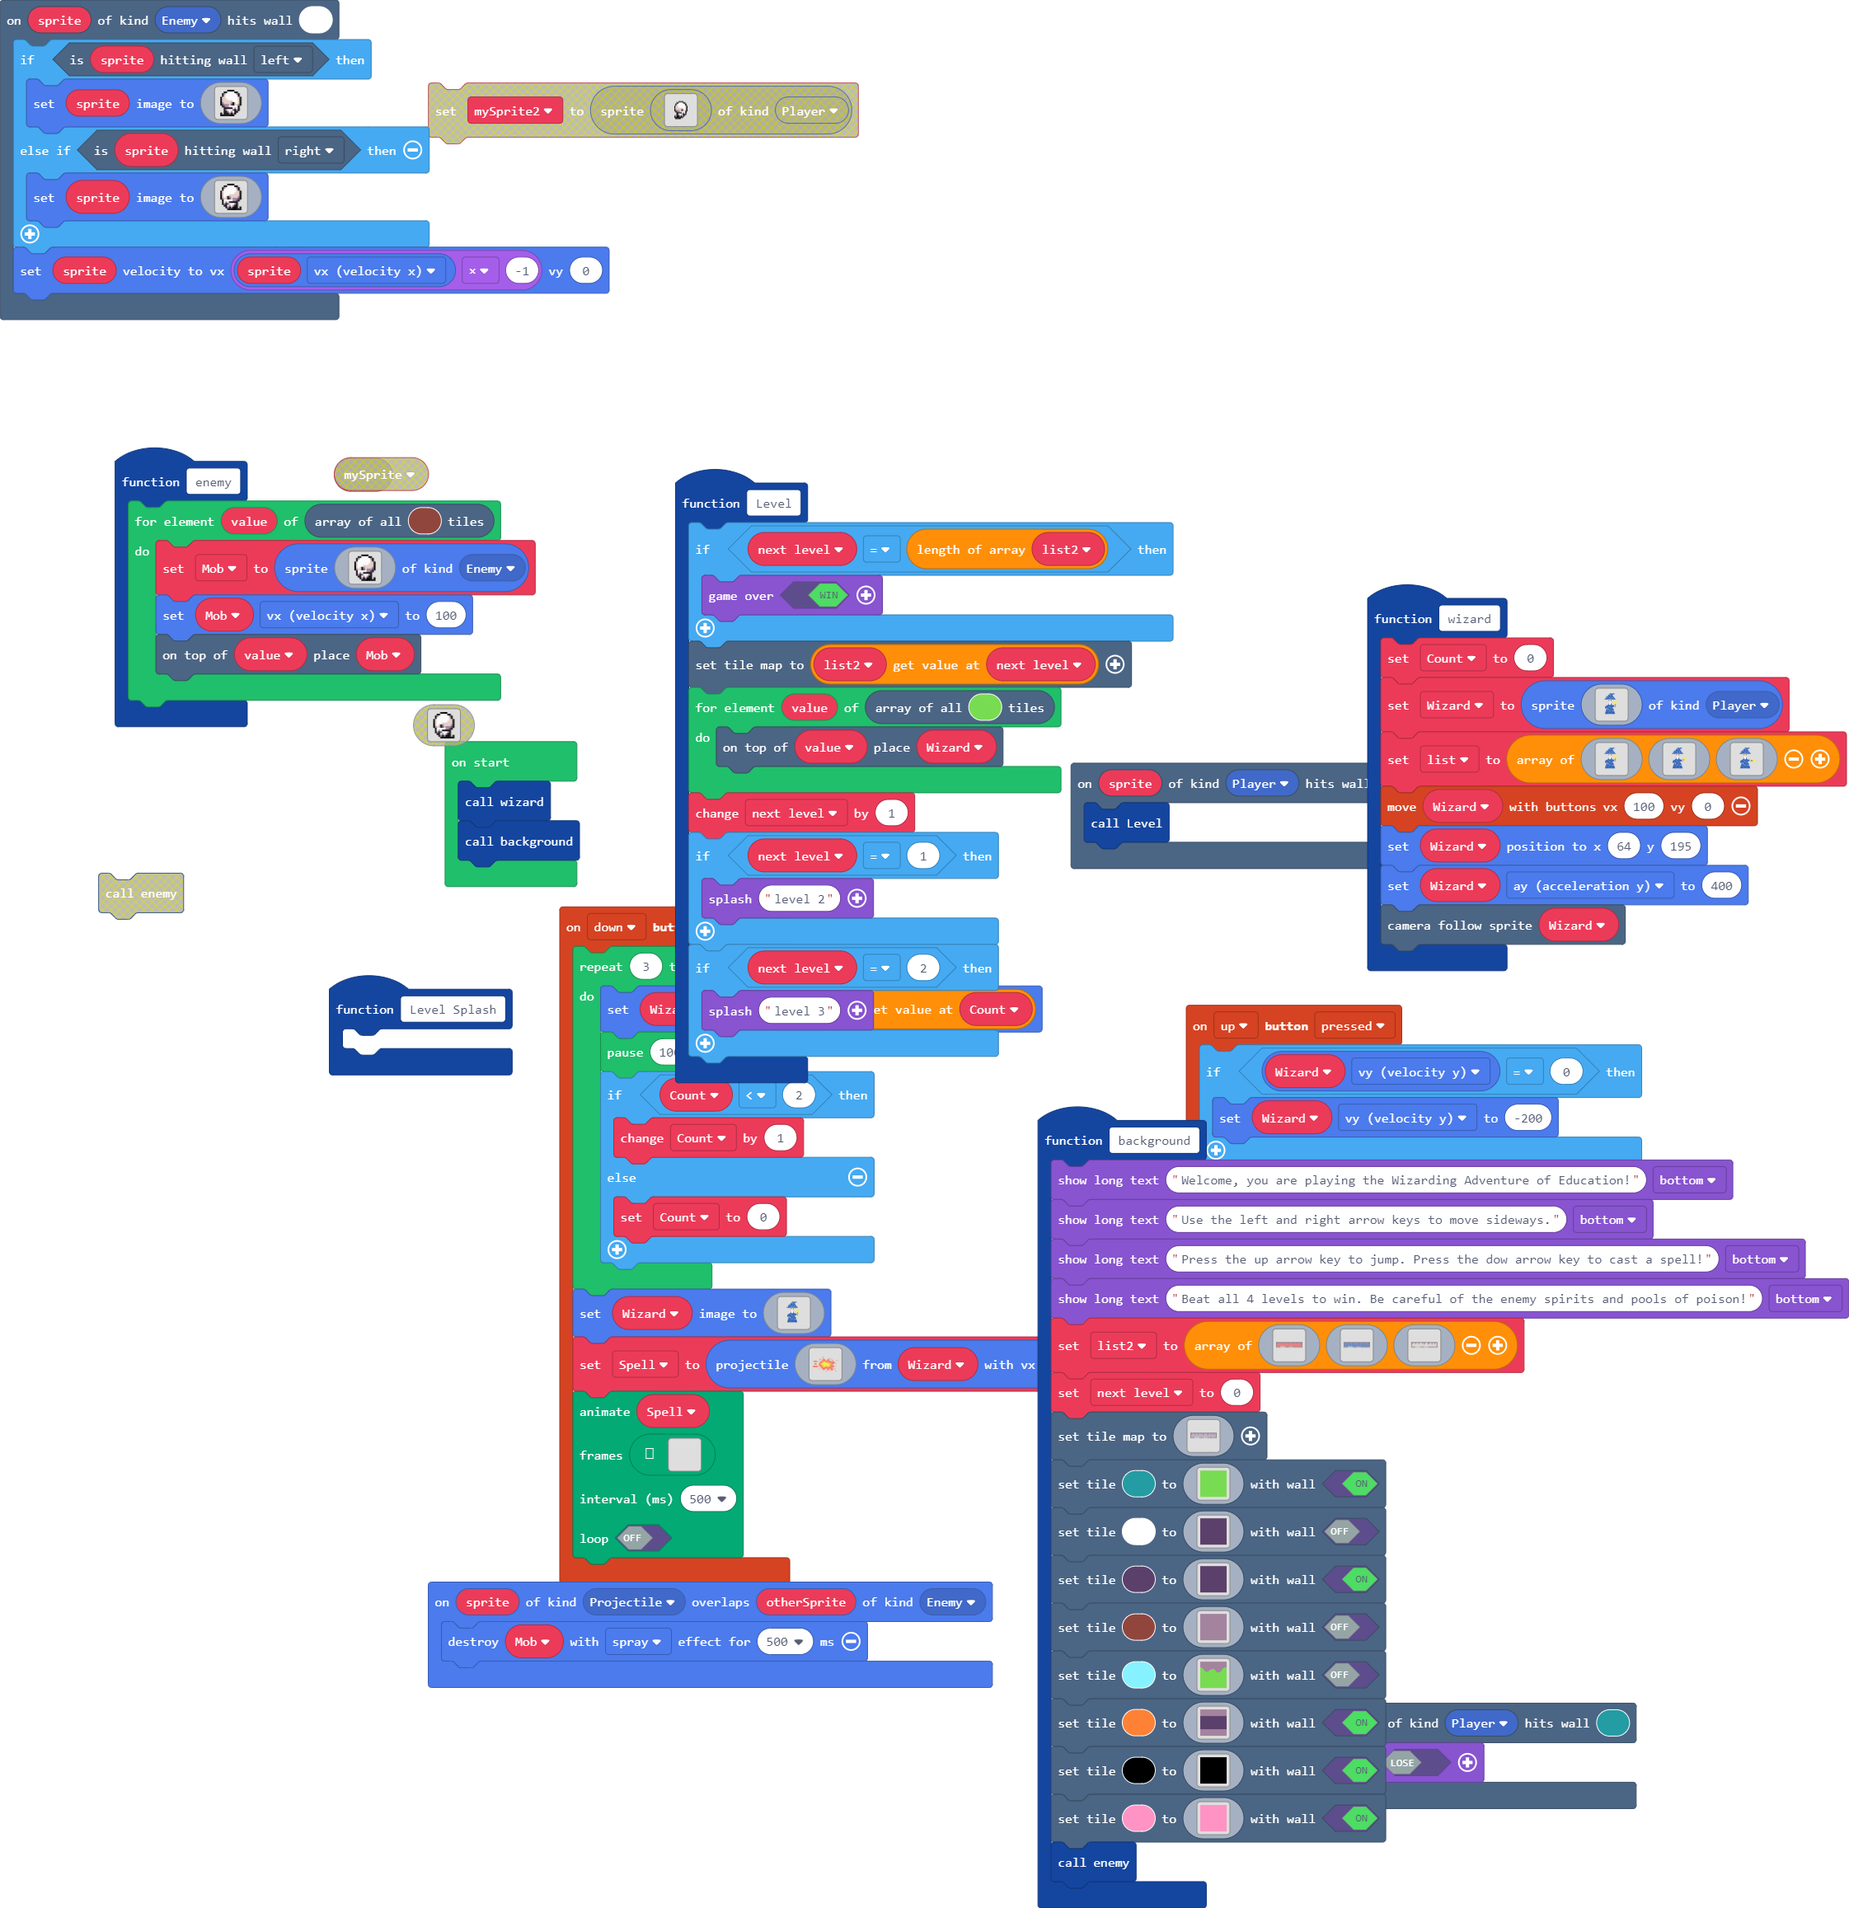
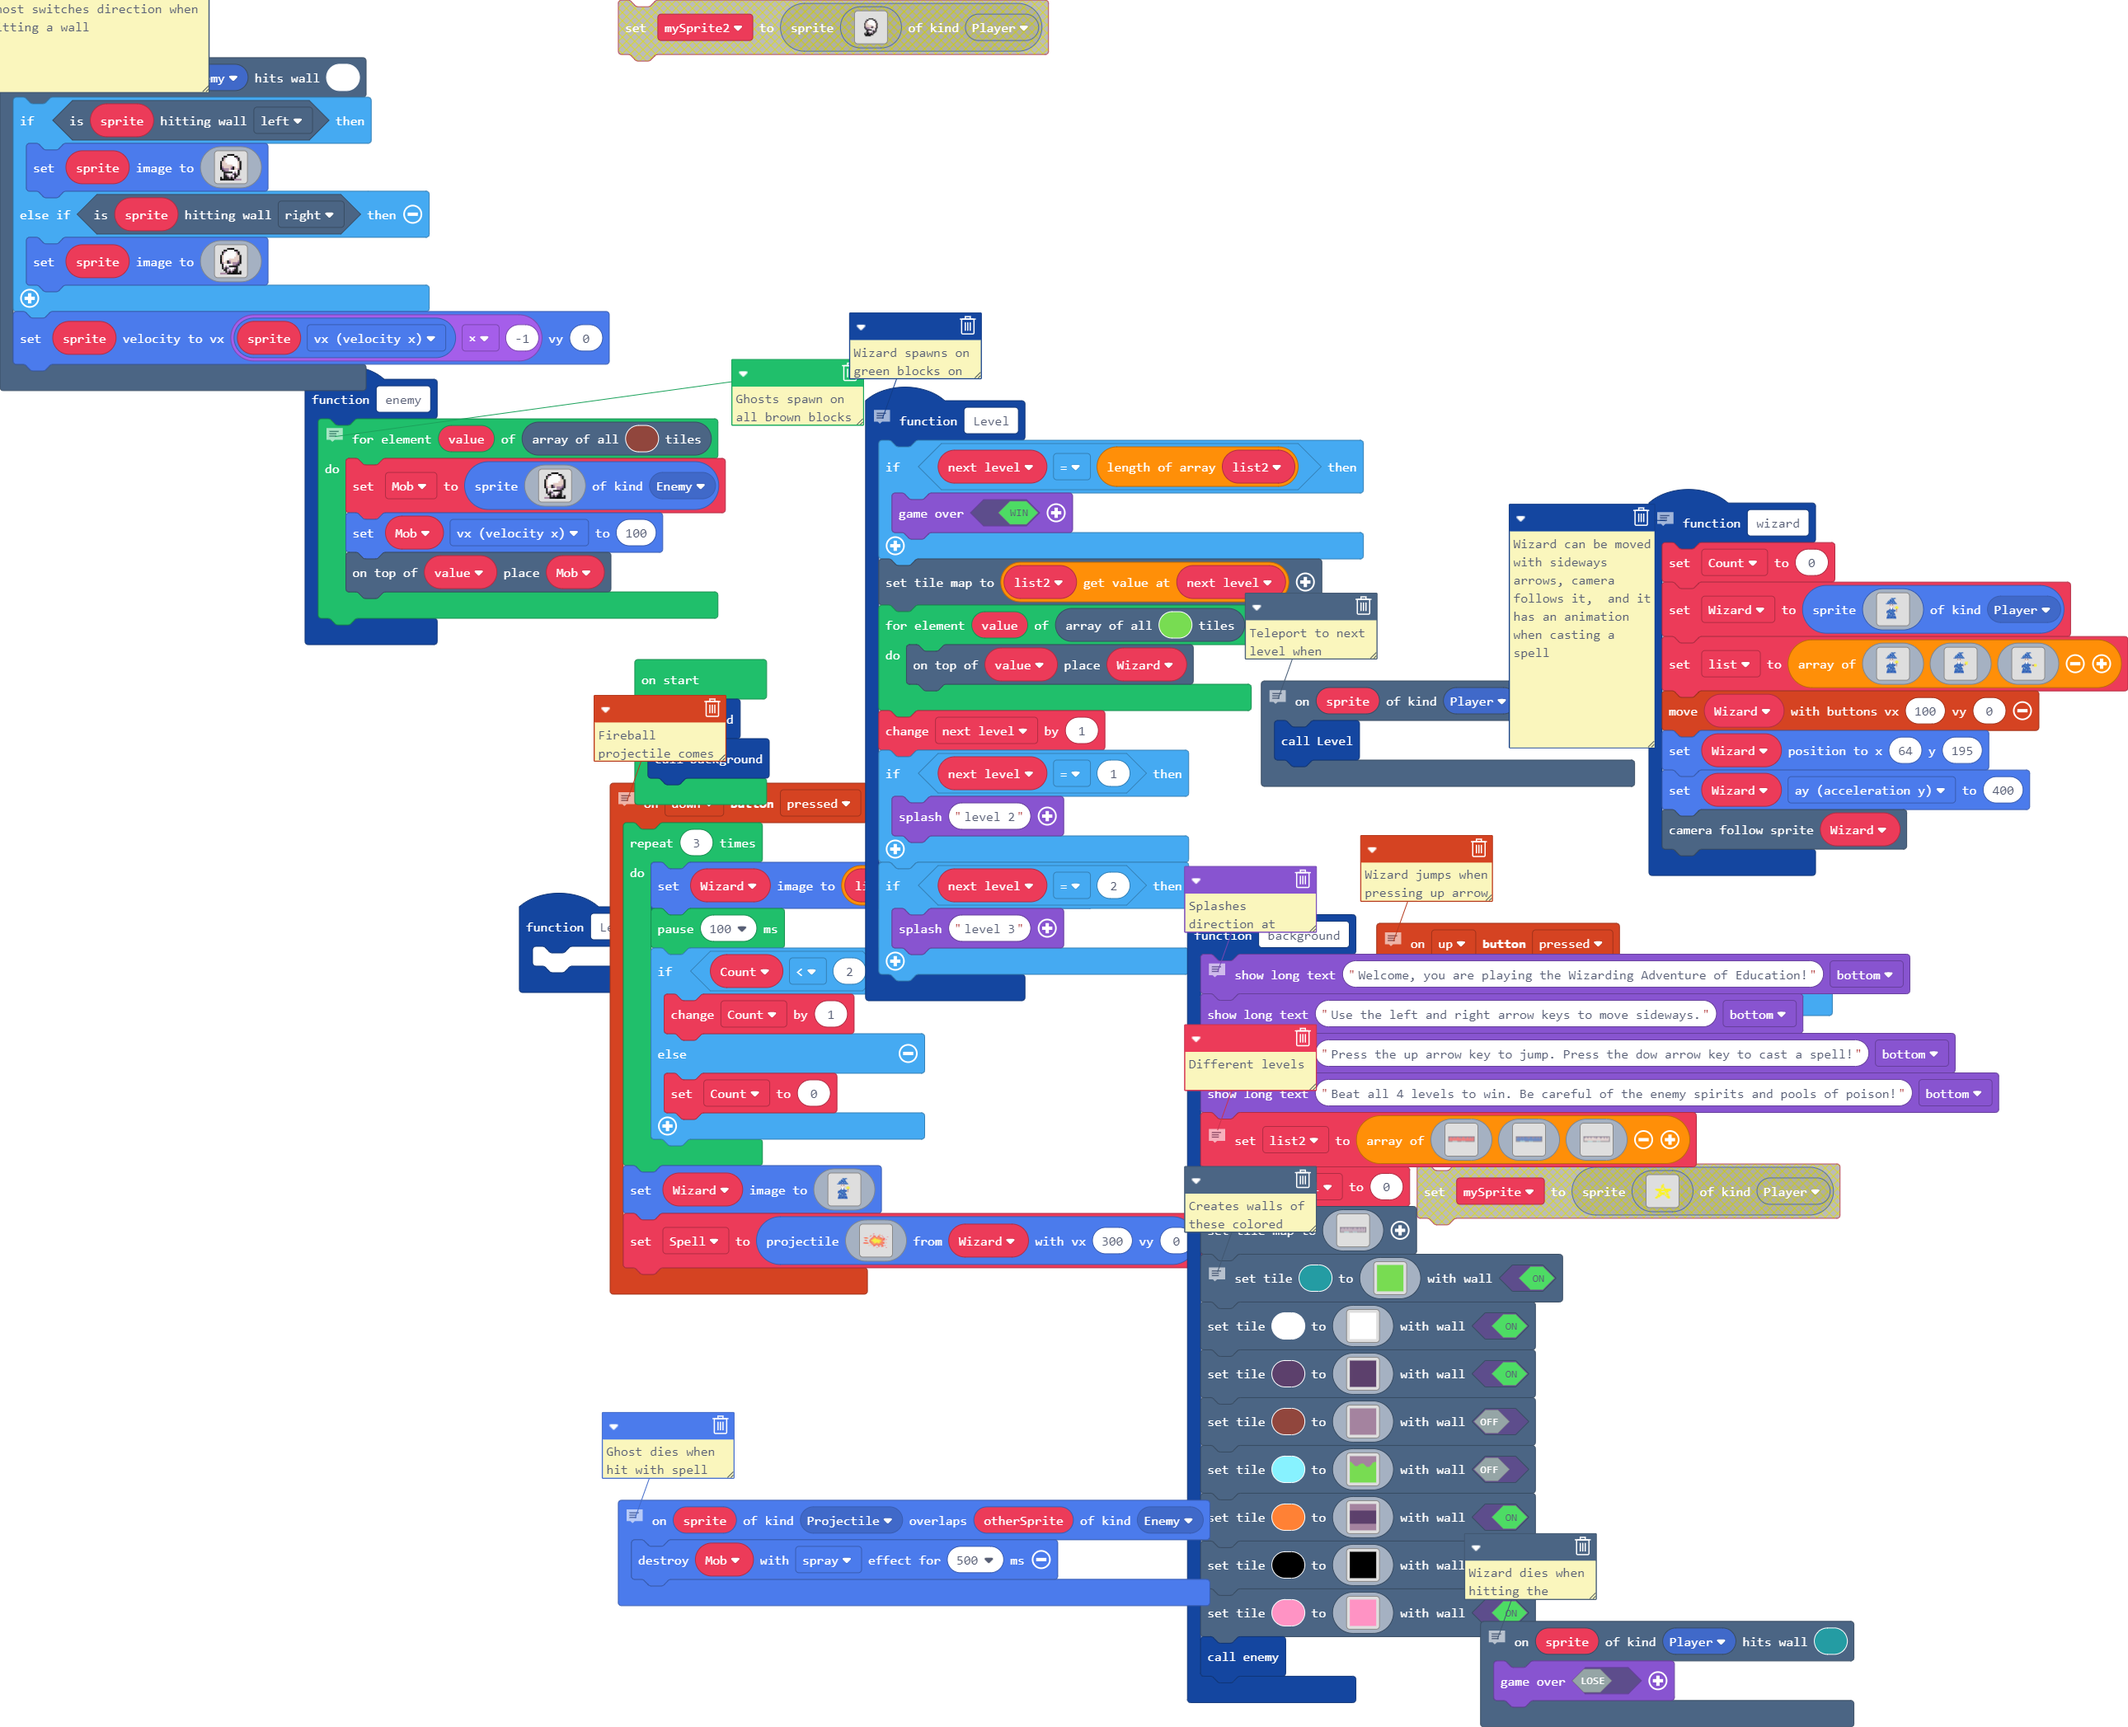
Update main.blocks, main.ts

diff --git a/main.ts b/main.ts
@@ -19,6 +19,9 @@ namespace myTiles {
 . . . . . . . . . . . . . . . . 
 `
 }
+// Wizard can be moved with sideways arrows, camera
+// follows it,  and it has an animation when casting a
+// spell
 function wizard () {
     Count = 0
     Wizard = sprites.create(img`
@@ -192,9 +195,12 @@ function wizard () {
     Wizard.ay = 400
     scene.cameraFollowSprite(Wizard)
 }
+// Teleport to next level when touching the pink block
 scene.onHitTile(SpriteKind.Player, 3, function (sprite) {
     Level()
 })
+// Fireball projectile comes out of wizard when down
+// arrow is pressed
 controller.down.onEvent(ControllerButtonEvent.Pressed, function () {
     for (let index = 0; index < 3; index++) {
         Wizard.setImage(list[Count])
@@ -279,35 +285,14 @@ controller.down.onEvent(ControllerButtonEvent.Pressed, function () {
 . . . . . . . . . . . . . . . . . . . . . . . . . . . . . . . . . . . . . . . . 
 . . . . . . . . . . . . . . . . . . . . . . . . . . . . . . . . . . . . . . . . 
 `, Wizard, 300, 0)
-    animation.runImageAnimation(
-    Spell,
-    [img`
-. . . . . . . . . . . . . . . . 
-. . . . . . . . . . . . . . . . 
-. . . . . . . . . . . . . . . . 
-. . . . . . . . . . . . . . . . 
-. . . . . . . . . . . . . . . . 
-. . . . . . . . . . . . . . . . 
-. . . . . . . . . . . . . . . . 
-. . . . . . . . . . . . . . . . 
-. . . . . . . . . . . . . . . . 
-. . . . . . . . . . . . . . . . 
-. . . . . . . . . . . . . . . . 
-. . . . . . . . . . . . . . . . 
-. . . . . . . . . . . . . . . . 
-. . . . . . . . . . . . . . . . 
-. . . . . . . . . . . . . . . . 
-. . . . . . . . . . . . . . . . 
-`],
-    500,
-    false
-    )
 })
 function background () {
+    // Splashes direction at start of game
     game.showLongText("Welcome, you are playing the Wizarding Adventure of Education!", DialogLayout.Bottom)
     game.showLongText("Use the left and right arrow keys to move sideways.", DialogLayout.Bottom)
     game.showLongText("Press the up arrow key to jump. Press the dow arrow key to cast a spell!", DialogLayout.Bottom)
     game.showLongText("Beat all 4 levels to win. Be careful of the enemy spirits and pools of poison!", DialogLayout.Bottom)
+    // Different levels
     list2 = [img`
 f f f f f f f f f f f f f f f f f f f f f f f f f f f f f f f f f f f f f f f f f f f f f f f f f f f f f f f f f f f f f f f f f f f f f f f f f f f 
 f c c c c c c c c c c c c c c c c c c c c c c c c c c c c c c c c c c c c c c c c c c c c c c c c c c c c c c c c c c c c c c c c c c c c c c c c c f 
@@ -371,10 +356,11 @@ f c b b b b b b b b b b b b b b b b b b b b b b b b b b b b b b b b b b b b b b 
 f c b b b b b b b b b b b b b b b b b b b b b b b b b b b b b b b b b b b b b b b b b b b b b b b b b b b b b b b b b b b b b b b b b b b b b b b c f 
 f c b b b b b b b b b b b b b b b b b b b b b b b b b b b b b b b b b b b b b b b b b b b b b b b b b b b b b b b b b b b b b b b b b b b b b b b c f 
 f c b b b b b b b b b b b b 4 4 4 b b b b 4 4 4 b b b b b b b b b b b b b b b b b b b b b b b b b b b b b b b b b b b b b b b b b b b b b b b b b c f 
-f c b 7 b b b b b b b b b b b b b b b b b b b b b b b b 1 b b b e b b b 1 b b b b b b b b b b b b b b b b b 1 b b b b e b b b b 1 b b b b b 3 b b c f 
+f c b 7 b b b b b b b b b b b b b b b b b b b b b b b b b b b b e b b b b b b b b b b b b b b b b b b b b b b b b b b e b b b b b b b b b b 3 b b c f 
 f c c c c c c c c c c c 9 9 9 9 9 9 9 9 9 9 9 9 9 9 c c 1 c c c c c c c 1 c 9 9 9 9 c c 9 9 9 9 c c c c c c 1 c c c c c c c c c 1 c c c c c c c c c f 
 f f f f f f f f f f f f 6 6 6 6 6 6 6 6 6 6 6 6 6 6 f f f f f f f f f f f f 6 6 6 6 f f 6 6 6 6 f f f f f f f f f f f f f f f f f f f f f f f f f f f 
 `)
+    // Creates walls of these colored blocks
     scene.setTile(6, img`
 7 7 7 7 7 7 7 7 7 7 7 7 7 7 7 7 
 7 7 7 7 7 7 7 7 7 7 7 7 7 7 7 7 
@@ -394,23 +380,23 @@ f f f f f f f f f f f f 6 6 6 6 6 6 6 6 6 6 6 6 6 6 f f f f f f f f f f f f 6 6 
 7 7 7 7 7 7 7 7 7 7 7 7 7 7 7 7 
 `, true)
     scene.setTile(1, img`
-c c c c c c c c c c c c c c c c 
-c c c c c c c c c c c c c c c c 
-c c c c c c c c c c c c c c c c 
-c c c c c c c c c c c c c c c c 
-c c c c c c c c c c c c c c c c 
-c c c c c c c c c c c c c c c c 
-c c c c c c c c c c c c c c c c 
-c c c c c c c c c c c c c c c c 
-c c c c c c c c c c c c c c c c 
-c c c c c c c c c c c c c c c c 
-c c c c c c c c c c c c c c c c 
-c c c c c c c c c c c c c c c c 
-c c c c c c c c c c c c c c c c 
-c c c c c c c c c c c c c c c c 
-c c c c c c c c c c c c c c c c 
-c c c c c c c c c c c c c c c c 
-`, false)
+1 1 1 1 1 1 1 1 1 1 1 1 1 1 1 1 
+1 1 1 1 1 1 1 1 1 1 1 1 1 1 1 1 
+1 1 1 1 1 1 1 1 1 1 1 1 1 1 1 1 
+1 1 1 1 1 1 1 1 1 1 1 1 1 1 1 1 
+1 1 1 1 1 1 1 1 1 1 1 1 1 1 1 1 
+1 1 1 1 1 1 1 1 1 1 1 1 1 1 1 1 
+1 1 1 1 1 1 1 1 1 1 1 1 1 1 1 1 
+1 1 1 1 1 1 1 1 1 1 1 1 1 1 1 1 
+1 1 1 1 1 1 1 1 1 1 1 1 1 1 1 1 
+1 1 1 1 1 1 1 1 1 1 1 1 1 1 1 1 
+1 1 1 1 1 1 1 1 1 1 1 1 1 1 1 1 
+1 1 1 1 1 1 1 1 1 1 1 1 1 1 1 1 
+1 1 1 1 1 1 1 1 1 1 1 1 1 1 1 1 
+1 1 1 1 1 1 1 1 1 1 1 1 1 1 1 1 
+1 1 1 1 1 1 1 1 1 1 1 1 1 1 1 1 
+1 1 1 1 1 1 1 1 1 1 1 1 1 1 1 1 
+`, true)
     scene.setTile(12, img`
 c c c c c c c c c c c c c c c c 
 c c c c c c c c c c c c c c c c 
@@ -537,9 +523,13 @@ f f f f f f f f f f f f f f f f
 `, true)
     enemy()
 }
+// Wizard dies when hitting the liquid
+//
 scene.onHitTile(SpriteKind.Player, 6, function (sprite) {
     game.over(false)
 })
+// Ghost dies when hit with spell projectile from
+// wizard
 sprites.onOverlap(SpriteKind.Projectile, SpriteKind.Enemy, function (sprite, otherSprite) {
     Mob.destroy(effects.spray, 500)
 })
@@ -547,6 +537,8 @@ function Level_Splash () {
 	
 }
 function enemy () {
+    // Ghosts spawn on all brown blocks
+    //
     for (let value of scene.getTilesByType(14)) {
         Mob = sprites.create(img`
 . . . . f f f f . . . . 
@@ -563,12 +555,15 @@ f b d d f c d b b b c f
 . f b f c 1 1 1 b f . . 
 . . f f 1 b 1 b f f . . 
 . . . f b f b f f f . f 
-. . . . f f f f f f f f 
+b b b f f f f f f f f f 
 `, SpriteKind.Enemy)
         Mob.vx = 100
         scene.place(value, Mob)
     }
 }
+// Wizard spawns on green blocks on each level and
+// splashes what level you are on. You win when you
+// hit the last level
 function Level () {
     if (next_level == list2.length) {
         game.over(true)
@@ -585,6 +580,7 @@ function Level () {
         game.splash("level 3")
     }
 }
+// Ghost switches direction when hitting a wall
 scene.onHitTile(SpriteKind.Enemy, 1, function (sprite) {
     if (sprite.isHittingTile(CollisionDirection.Left)) {
         sprite.setImage(img`
@@ -602,7 +598,7 @@ f c b b b d c f d d b f
 . . f b 1 1 1 c f b f . 
 . . f f b 1 b 1 f f . . 
 f . f f f b f b f . . . 
-f f f f f f f f . . . . 
+f f f f f f f f b b b b 
 `)
     } else if (sprite.isHittingTile(CollisionDirection.Right)) {
         sprite.setImage(img`
@@ -620,11 +616,12 @@ f b d d f c d b b b c f
 . f b f c 1 1 1 b f . . 
 . . f f 1 b 1 b f f . . 
 . . . f b f b f f f . f 
-. . . . f f f f f f f f 
+b b b b f f f f f f f f 
 `)
     }
     sprite.setVelocity(sprite.vx * -1, 0)
 })
+// Wizard jumps when pressing up arrow
 controller.up.onEvent(ControllerButtonEvent.Pressed, function () {
     if (Wizard.vy == 0) {
         Wizard.vy = -200
